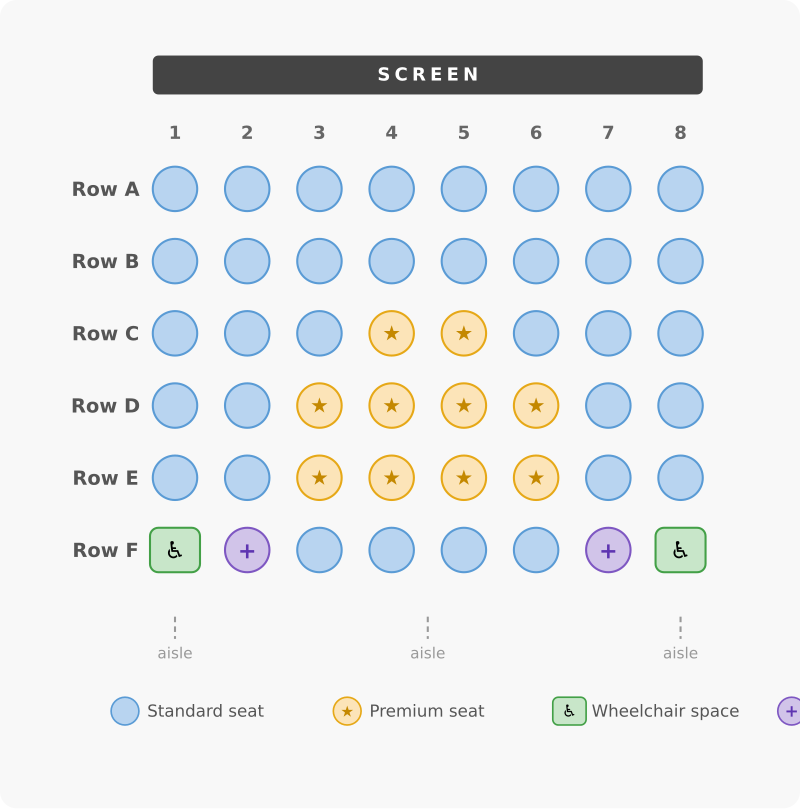
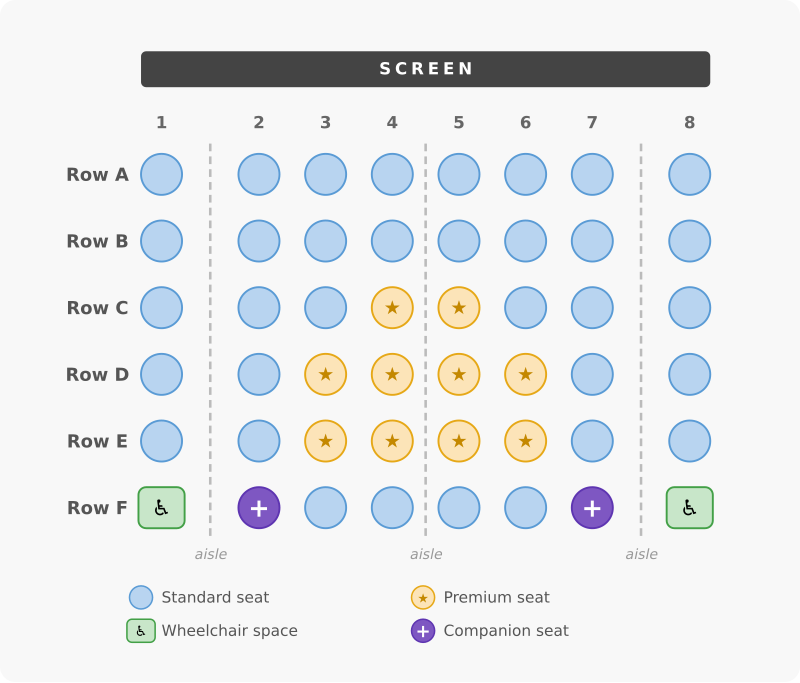
Fix seating plan: visible companion labels, clearer aisles, full legend
- Companion seats now use dark purple fill with white "+" text for contrast
- Aisles rendered as full-height vertical dashed lines through the seating
  area instead of tiny marks below row F
- Legend arranged in 2×2 grid so all four seat types fit within the canvas

diff --git a/generate-seating-plan.js b/generate-seating-plan.js
@@ -18,14 +18,23 @@ const seatGap = 52;
 const leftMargin = 100;
 const topMargin = 110;
 const rowHeight = 52;
-const width = leftMargin + COLS * seatGap + 60;
+const aisleWidth = 24; // visual gap for aisles between seat columns
+const width = leftMargin + COLS * seatGap + 2 * aisleWidth + 60;
 const screenY = 40;
-const legendY = topMargin + ROWS.length * rowHeight + 40;
-const aisleY = legendY - 10;
-const totalHeight = legendY + 120;
+const legendY = topMargin + ROWS.length * rowHeight + 30;
+const totalHeight = legendY + 80;
+
+// Aisle positions: gaps before column index 1 and after column index 6
+// (i.e., between cols 0-1 and between cols 6-7, matching the original diagram)
+const aisleBeforeCols = new Set([1, 7]); // insert aisle gap before these column indices
 
 function seatX(col) {
-  return leftMargin + col * seatGap + seatGap / 2;
+  // Shift right by aisleWidth for each aisle gap before this column
+  let aisleOffset = 0;
+  for (const a of aisleBeforeCols) {
+    if (col >= a) aisleOffset += aisleWidth;
+  }
+  return leftMargin + col * seatGap + seatGap / 2 + aisleOffset;
 }
 
 function seatY(row) {
@@ -78,24 +87,32 @@ ROWS.forEach((row, ri) => {
       emit(`<text x="${cx}" y="${cy + 6}" text-anchor="middle" font-size="17">♿</text>`);
     } else if (type === "+") {
       // Companion seat
-      emit(`<circle cx="${cx}" cy="${cy}" r="${seatR}" fill="#d1c4e9" stroke="#7e57c2" stroke-width="1.5"/>`);
-      emit(`<text x="${cx}" y="${cy + 6}" text-anchor="middle" font-size="16" font-weight="700" fill="#5e35b1">+</text>`);
+      emit(`<circle cx="${cx}" cy="${cy}" r="${seatR}" fill="#7e57c2" stroke="#5e35b1" stroke-width="1.5"/>`);
+      emit(`<text x="${cx}" y="${cy + 7}" text-anchor="middle" font-size="20" font-weight="700" fill="#fff">+</text>`);
     }
   });
 });
 
-// Aisle markers below row F
-const aislePositions = [0, 3.5, 7]; // between seat indices
-aislePositions.forEach(pos => {
-  const ax = (pos === 3.5)
-    ? (seatX(3) + seatX(4)) / 2
-    : seatX(pos);
-  emit(`<line x1="${ax}" y1="${aisleY - 8}" x2="${ax}" y2="${aisleY + 8}" stroke="#999" stroke-width="1.5" stroke-dasharray="4,3"/>`);
-  emit(`<text x="${ax}" y="${aisleY + 22}" text-anchor="middle" font-size="11" fill="#999">aisle</text>`);
+// Aisle strips — vertical dashed lines running through the seating area
+const aisleStripX = [];
+for (const a of aisleBeforeCols) {
+  // Position the aisle in the gap between the previous column and this one
+  const prevColRight = seatX(a - 1) + seatR + 2;
+  const thisColLeft = seatX(a) - seatR - 2;
+  aisleStripX.push((prevColRight + thisColLeft) / 2);
+}
+// Also add a center aisle between columns 3 and 4 (no gap, just a marker)
+aisleStripX.push((seatX(3) + seatX(4)) / 2);
+
+const aisleTop = seatY(0) - seatR - 8;
+const aisleBottom = seatY(ROWS.length - 1) + seatR + 8;
+
+aisleStripX.forEach(ax => {
+  emit(`<line x1="${ax}" y1="${aisleTop}" x2="${ax}" y2="${aisleBottom}" stroke="#bbb" stroke-width="2" stroke-dasharray="6,4"/>`);
+  emit(`<text x="${ax}" y="${aisleBottom + 16}" text-anchor="middle" font-size="11" fill="#999" font-style="italic">aisle</text>`);
 });
 
-// Legend
-const ly = legendY + 50;
+// Legend — 2×2 grid so it fits the canvas
 const items = [
   { type: "standard", label: "Standard seat" },
   { type: "premium", label: "Premium seat" },
@@ -103,25 +120,30 @@ const items = [
   { type: "companion", label: "Companion seat" },
 ];
 
-const legendStartX = leftMargin - 10;
-const legendGap = 160;
+const legendCols = 2;
+const legendColW = 220;
+const legendRowH = 26;
+const legendStartX = leftMargin + 10;
+const legendStartY = legendY + 14;
 
 items.forEach((item, i) => {
-  const lx = legendStartX + i * legendGap;
-  const iy = ly;
-  const r = 10;
+  const col = i % legendCols;
+  const row = Math.floor(i / legendCols);
+  const lx = legendStartX + col * legendColW;
+  const iy = legendStartY + row * legendRowH;
+  const r = 9;
 
   if (item.type === "standard") {
     emit(`<circle cx="${lx}" cy="${iy}" r="${r}" fill="#b8d4f0" stroke="#5a9bd5" stroke-width="1.2"/>`);
   } else if (item.type === "premium") {
     emit(`<circle cx="${lx}" cy="${iy}" r="${r}" fill="#fce4b8" stroke="#e6a817" stroke-width="1.2"/>`);
-    emit(`<text x="${lx}" y="${iy + 4}" text-anchor="middle" font-size="11" fill="#c48800">★</text>`);
+    emit(`<text x="${lx}" y="${iy + 4}" text-anchor="middle" font-size="10" fill="#c48800">★</text>`);
   } else if (item.type === "wheelchair") {
-    emit(`<rect x="${lx - 12}" y="${iy - 10}" width="24" height="20" rx="4" fill="#c8e6c9" stroke="#43a047" stroke-width="1.2"/>`);
-    emit(`<text x="${lx}" y="${iy + 4}" text-anchor="middle" font-size="12">♿</text>`);
+    emit(`<rect x="${lx - 11}" y="${iy - 9}" width="22" height="18" rx="4" fill="#c8e6c9" stroke="#43a047" stroke-width="1.2"/>`);
+    emit(`<text x="${lx}" y="${iy + 4}" text-anchor="middle" font-size="11">♿</text>`);
   } else if (item.type === "companion") {
-    emit(`<circle cx="${lx}" cy="${iy}" r="${r}" fill="#d1c4e9" stroke="#7e57c2" stroke-width="1.2"/>`);
-    emit(`<text x="${lx}" y="${iy + 4}" text-anchor="middle" font-size="12" font-weight="700" fill="#5e35b1">+</text>`);
+    emit(`<circle cx="${lx}" cy="${iy}" r="${r}" fill="#7e57c2" stroke="#5e35b1" stroke-width="1.2"/>`);
+    emit(`<text x="${lx}" y="${iy + 5}" text-anchor="middle" font-size="14" font-weight="700" fill="#fff">+</text>`);
   }
 
   emit(`<text x="${lx + 16}" y="${iy + 4}" font-size="12" fill="#555">${item.label}</text>`);
